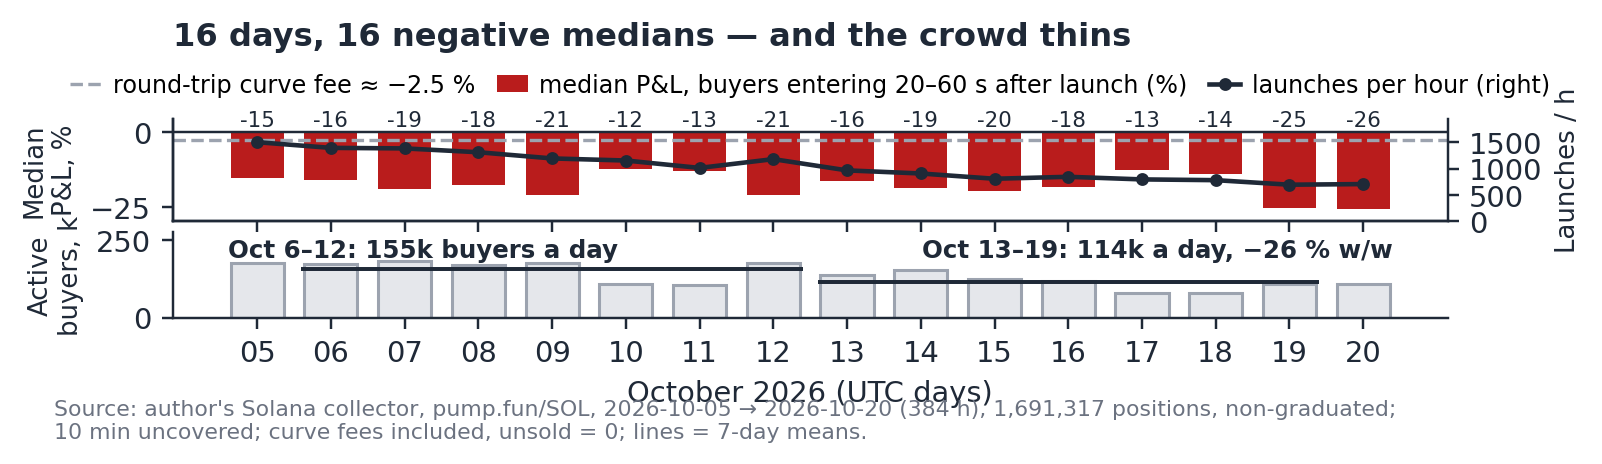
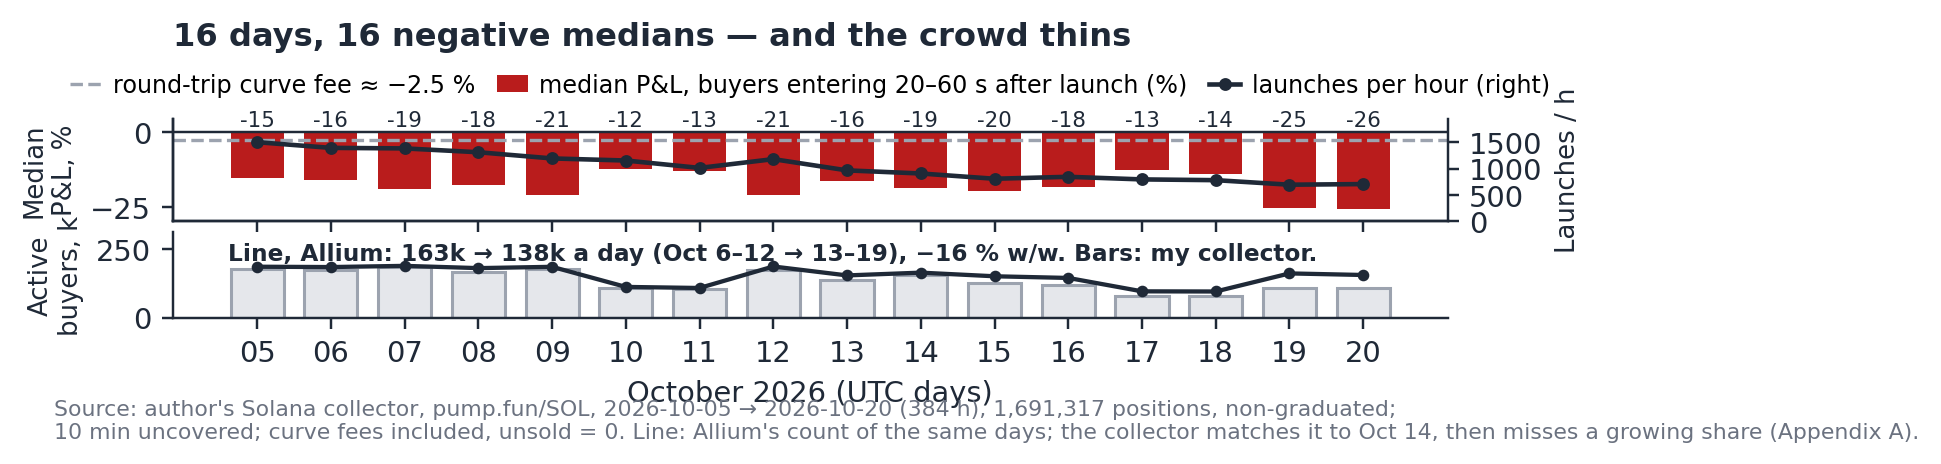
Fig. 1: Allium's count of active buyers drawn over the collector's bars

diff --git a/scripts/fig10.py b/scripts/fig10.py
@@ -2,7 +2,7 @@
 # F11 — rétention à 7 jours des cohortes de nouveaux entrants (annexe B).
 # Lit data/pumpfun-16d/aggregate-pumpfun.json (sortie de data/pumpfun-16d/agreger.py). Lancer depuis research-competition/ :
 #   .venv/bin/python figures/fig10.py
-import json, pathlib
+import csv, json, pathlib
 from datetime import date
 import matplotlib; matplotlib.use('Agg')
 import matplotlib.pyplot as plt
@@ -13,6 +13,9 @@ P = A['parJour']; n = len(P)
 jours = [date.fromisoformat(o['jour']) for o in P]; lab = [d.strftime('%d') for d in jours]
 med = [100*o['med2060'] for o in P]; lan = [o['parHeure'] for o in P]
 act = [A['adresses']['activesParJour'][o['jour']] for o in P]
+# second pipeline: Allium's count of the same days (crosscheck/results/allium/q1-overlap-daily.csv)
+AL = {r['day']: int(r['buyers']) for r in csv.DictReader(open('crosscheck/results/allium/q1-overlap-daily.csv')) if r['protocol'] == 'pumpfun' and r['day'][:4] == '2026'}
+al = [AL[o['jour']]/1000 for o in P]
 fig, (ax, bx) = plt.subplots(2, 1, figsize=(7.2, 1.74), sharex=True, gridspec_kw={'height_ratios': [1.2, 1], 'hspace': 0.12})
 x = list(range(n))
 ax.bar(x, med, color=RED, width=0.72, label='median P&L, buyers entering 20–60 s after launch (%)')
@@ -25,16 +28,15 @@ ax2.set_ylabel('Launches / h', fontsize=8.5); ax2.set_ylim(0, max(lan)*1.3); ax2
 h1,l1 = ax.get_legend_handles_labels(); h2,l2 = ax2.get_legend_handles_labels()
 ax.legend(h1+h2, l1+l2, loc='lower center', bbox_to_anchor=(0.5, 1.0), fontsize=7.8, frameon=False, ncol=3, columnspacing=0.9, handlelength=1.3, handletextpad=0.5)
 ak = [a/1000 for a in act]
-bx.bar(x, ak, color=LIGHT, edgecolor=GREY, width=0.72)
-w1 = sum(ak[1:8])/7; w2 = sum(ak[8:15])/7            # Oct 6–12 et Oct 13–19 (lundi → dimanche)
-top = max(ak)
-bx.hlines(w1, 0.6, 7.4, color=INK, lw=1.3); bx.hlines(w2, 7.6, 14.4, color=INK, lw=1.3)
-bx.text(-0.4, top+10, f'Oct 6–12: {w1:.0f}k buyers a day', ha='left', fontsize=8, color=INK, fontweight='bold')
-bx.text(15.4, top+10, f'Oct 13–19: {w2:.0f}k a day, −{100*(1-w2/w1):.0f} % w/w', ha='right', fontsize=8, color=INK, fontweight='bold')
+bx.bar(x, ak, color=LIGHT, edgecolor=GREY, width=0.72, label='my collector')
+bx.plot(x, al, color=INK, lw=1.4, marker='o', ms=2.8, label='Allium (ref. 19)')
+w1 = sum(al[1:8])/7; w2 = sum(al[8:15])/7            # Oct 6–12 et Oct 13–19, compte Allium
+top = max(max(ak), max(al))
+bx.text(-0.4, top+22, f'Line, Allium: {w1:.0f}k → {w2:.0f}k a day (Oct 6–12 → 13–19), −{100*(1-w2/w1):.0f} % w/w. Bars: my collector.', ha='left', fontsize=7.6, color=INK, fontweight='bold')
 bx.set_ylabel('Active\nbuyers, k', fontsize=8.5, labelpad=4); bx.set_xticks(x); bx.set_xticklabels(lab); bx.set_xlabel('October 2026 (UTC days)')
-bx.set_ylim(0, top*1.5)
+bx.set_ylim(0, top*1.65)
 ax.set_title(f"{n} days, {A['foule2060']['joursNegatifs']} negative medians — and the crowd thins", loc='left', fontsize=10.5, fontweight='bold', color=INK, pad=24)
-fig.text(0.01, 0.005, f"Source: author's Solana collector, pump.fun/SOL, {A['fenetre']['debut']} → {A['fenetre']['fin']} ({A['fenetre']['heures']} h), {A['foule2060']['positions']:,} positions, non-graduated;\n{A['couverture']['minutesSansSource']} min uncovered; curve fees included, unsold = 0; lines = 7-day means.", fontsize=7.2, color=MUTED, ha='left', va='bottom')
+fig.text(0.01, 0.005, f"Source: author's Solana collector, pump.fun/SOL, {A['fenetre']['debut']} → {A['fenetre']['fin']} ({A['fenetre']['heures']} h), {A['foule2060']['positions']:,} positions, non-graduated;\n{A['couverture']['minutesSansSource']} min uncovered; curve fees included, unsold = 0. Line: Allium's count of the same days; the collector matches it to Oct 14, then misses a growing share (Appendix A).", fontsize=7.2, color=MUTED, ha='left', va='bottom')
 fig.subplots_adjust(left=0.085, right=0.89, top=0.85, bottom=0.33, hspace=0.22); fig.savefig(F/'fig1_pumpfun_16_days.png', dpi=220, bbox_inches='tight'); plt.close(fig); print('ok fig1_pumpfun_16_days.png', round(w1), round(w2))
 
 # ---- F11 (annexe B) : rétention des cohortes de nouveaux entrants ----
